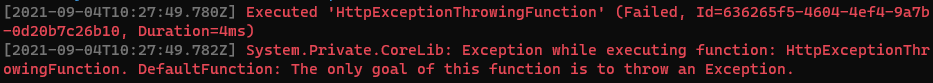
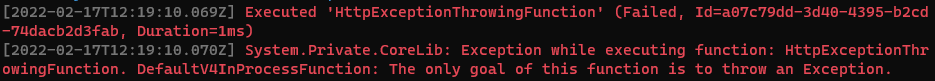
Improve README copy and refresh screenshots

diff --git a/README.md b/README.md
@@ -16,7 +16,9 @@ If you’re not familiar with some of the more advanced features of Application 
 - [Telemetry processors][telemetry-processors]
 - [Telemetry initializers][telemetry-initializers]
 
-In this repository I've attempted to address all the quirks listed above. **Warning**: The customisation is experimental. There may be undesired side effects around performance and missing telemetry. If you're experiencing issues such as missing telemetry, no exception being recorded when something doesn't work as expected I recommend disabling the custom integration and reproducing the problem without it.
+In this repository I've attempted to address all the quirks listed above.
+
+:rotating_light: the customisation is experimental. There may be undesired side effects around performance and missing telemetry. If you're experiencing issues such as missing telemetry, no exception being recorded when something doesn't work as expected I recommend disabling the custom integration and reproducing the problem without it.
 
 ## Using the Application Insights customisation
 
@@ -62,9 +64,9 @@ builder.Services
     .AddCustomConsoleLogging();
 ```
 
-**Note**: Having to specify the name of the Functions is not great and something that will be improved later on.
+**Note**: Having to specify the name of the Functions is not great and something that will hopefully be improved later on.
 
-I also support Function Apps containing both HTTP and Service Bus bindings. You can mix and match the configurations above.
+I also support Function Apps containing both HTTP and Service Bus bindings. You can mix and match the snippets above.
 
 ## What do I get?
 
@@ -74,17 +76,17 @@ This is implemented by [FunctionExecutionTracesFilter][function-execution-traces
 
 ### Discarding duplicate exceptions
 
-This is implemented by [DuplicateExceptionsFilter][duplicate-exceptions-filter]. In order to discard the additional duplicate exception for the Service Bus binding, you’ll need to call `DiscardServiceBusDuplicateExceptions` and provide the function names. Hopefully this is something that will be improved later on.
+This is implemented by [DuplicateExceptionsFilter][duplicate-exceptions-filter]. In order to discard the additional duplicate exception for the Service Bus binding, you’ll need to call `DiscardServiceBusDuplicateExceptions` and provide the Functions names. Hopefully this is something that will be improved later on.
 
 ### Discarding health requests
 
-This is enabled by calling `WithHealthRequestFilter` and providing the function name (the argument provided to the `FunctionNameAttribute`). The telemetry processor used is [HealthRequestFilter][health-request-filter].
+This is enabled by calling `WithHealthRequestFilter` and providing the Function name (the argument provided to the `FunctionNameAttribute`). The telemetry processor used is [HealthRequestFilter][health-request-filter].
 
 ### Better Service Bus binding "request"
 
 The _request name_ and _status code_ are not being set on the service bus triggered "requests". The [ServiceBusRequestInitializer][service-bus-request-initializer] can do this for you.
 
-- Request name: we use the Function name
+- Request name: I use the Function name
 - Status code: `200` in case of success, `500` in case of failure
 
 You need to enable the `ServiceBusRequestInitializer` by calling `WithServiceBusRequestInitializer`.
@@ -97,9 +99,9 @@ This is recommended on high-volume services. This is done by calling `WithServic
 
 This is done by calling `AddCustomConsoleLogging`. You’ll then get stack traces in the console.
 
-### Telemetry initializer support
+### Registering telemetry initializers
 
-**Note**: the built-in integration supports telemetry initializers.
+**Note**: the built-in integration supports telemetry initializers. The custom integration supports registering telemetry initializers in the same way than the built-in integration does.
 
 Telemetry initializers can either be registered using `TImplementation`:
 
@@ -107,7 +109,7 @@ Telemetry initializers can either be registered using `TImplementation`:
 builder.Services.AddSingleton<ITelemetryInitializer, YourInitializer>();
 ```
 
-Or an instance of the initializer:
+Or an instance of the telemetry initializer:
 
 ```csharp
 // Use:
@@ -118,9 +120,9 @@ builder.Services.AddSingleton(new YourOtherInitializer("NiceValue"));
 
 You can add as many telemetry initializers as you want.
 
-### Telemetry processor support
+### Telemetry processors support
 
-**Note**: the built-in integration does **not** telemetry processors.
+**Note**: the built-in integration does **not** support telemetry processors. I've added support so that you can use the same extension method than when registering a telemetry processor in ASP.NET Core:
 
 ```csharp
 builder.Services.AddApplicationInsightsTelemetryProcessor<YourTelemetryProcessor>();
@@ -153,12 +155,12 @@ Run `deploy.ps1` to deploy the project to Azure. This will deploy:
 .\deploy.ps1 -Location {AzureRegion} -ResourceNamePrefix {UniquePrefix}
 ```
 
-The project contains four Functions:
+The project contains four Functions Apps:
 
 - `DefaultV3InProcessFunction` and `DefaultV4InProcessFunction` demonstrate the quirks of In-Process Azure Functions `v3` / `v4` Application Insights integration
 - `CustomV3InProcessFunction` and `CustomV4InProcessFunction` demonstrate the workarounds I use to improve In-Process Azure Functions `v3` / `v4` Application Insights integration
 
-I've decided to commit the `local.settings.json` file. This is not the default or recommended approach but it makes it easier for new joiners to get started.
+I've decided to commit the `local.settings.json` file. This is **not the default or recommended approach** but it makes it easier for new joiners to get started.
 
 You can start the Function Apps by issuing the below commands:
 
@@ -182,7 +184,7 @@ cd .\samples\CustomV4InProcessFunction\
 func start
 ```
 
-The Function Apps run on fixed ports locally so that you can run all four at the same time:
+The Function Apps run on fixed ports locally so that you can run all four Functions at the same time:
 
 - Default `v3`: `7071`
 - Default `v4`: `7073`
@@ -193,17 +195,17 @@ The Function Apps run on fixed ports locally so that you can run all four at the
 
 Navigate to `http://localhost:7074/availability` (Custom `v4`) in your favourite browser.
 
-Emits an availability telemetry items. This is normally emitted by tooling such as Application Insights [URL ping test][url-ping-test]. The reason I'm emitting it manually is to demonstrate that the processor is called for availability telemetry items.
+Emits an availability telemetry items. This is normally emitted by tooling such as Application Insights [URL ping test][url-ping-test]. The reason I'm emitting it manually is to demonstrate that the telemetry processors are called for availability telemetry items.
 
 ### CustomEventFunction
 
-You'll need to delete the Application Insights connection string secret in order to reproduce this error. Stop all the Functions and then run:
+You'll need to delete the Application Insights connection string secret in order to reproduce the error. Stop all the Functions and then run:
 
 ```powershell
 dotnet user-secrets list --id 074ca336-270b-4832-9a1a-60baf152b727
 ```
 
-Make a note of the value of the `APPLICATIONINSIGHTS_CONNECTION_STRING` secret then delete it:
+Make a note of the value of the `APPLICATIONINSIGHTS_CONNECTION_STRING` secret, then delete it:
 
 ```powershell
 dotnet user-secrets remove APPLICATIONINSIGHTS_CONNECTION_STRING --id 074ca336-270b-4832-9a1a-60baf152b727
@@ -217,33 +219,33 @@ dotnet user-secrets set APPLICATIONINSIGHTS_CONNECTION_STRING '{YourConnectionSt
 
 Navigate to `http://localhost:7073/event` (Default `v4`) in your favourite browser.
 
-Demonstrate that when the setting `APPLICATIONINSIGHTS_CONNECTION_STRING` is not set, attempting to retrieve `TelemetryConfiguration` from the container results in an exception:
+Demonstrate that when the secret `APPLICATIONINSIGHTS_CONNECTION_STRING` is not set, attempting to retrieve `TelemetryConfiguration` from the container results in an exception:
 
-![Without the setting `APPLICATIONINSIGHTS_CONNECTION_STRING`, TelemetryConfiguration is not registered](docs/img/telemetry-configuration-not-registered.png)
+![Without the secret `APPLICATIONINSIGHTS_CONNECTION_STRING`, `TelemetryConfiguration` is not registered and an exception is thrown](docs/img/telemetry-configuration-not-registered.png)
 
-Note: when using vanilla ASP.NET, `TelemetryConfiguration` is registered by calling `AddApplicationInsightsTelemetry()` in `Startup.cs` but this method [should not be called in Azure Functions][dont-call-add-app-insights-telemetry]:
+Note: when using ASP.NET Core, `TelemetryConfiguration` is registered by calling `AddApplicationInsightsTelemetry()` in `Startup.cs` but this method [should not be called in Azure Functions][dont-call-add-app-insights-telemetry]:
 
 > Don't add `AddApplicationInsightsTelemetry()` to the services collection, which registers services that conflict with services provided by the environment.
 
 Navigate to `http://localhost:7074/event` (Custom `v4`) in your favourite browser.
 
-Demonstrate that when the setting `APPLICATIONINSIGHTS_CONNECTION_STRING` is not set, attempting to retrieve `TelemetryConfiguration` from the container does not result in an exception because I [register a no-op TelemetryConfiguration][default-telemetry-configuration-registration] if one was not registered already:
+Demonstrate that when the secret `APPLICATIONINSIGHTS_CONNECTION_STRING` is not set, attempting to retrieve `TelemetryConfiguration` from the container does not result in an exception because I [register a no-op TelemetryConfiguration][default-telemetry-configuration-registration] if one was not registered already:
 
-![Without the setting `APPLICATIONINSIGHTS_CONNECTION_STRING`, TelemetryConfiguration is registered and no exception is thrown](docs/img/telemetry-configuration-registered.png)
+![Without the secret `APPLICATIONINSIGHTS_CONNECTION_STRING`, `TelemetryConfiguration` is registered and no exception is thrown](docs/img/telemetry-configuration-registered.png)
 
 ### DependencyFunction
 
 Navigate to `http://localhost:7074/dependency` (Custom `v4`) in your favourite browser.
 
-Discards a specific telemetry type. This is useful when having a noisy telemetry. You can tweak the processor to only discard successful dependencies, you can also modify the implementation to discard multiple dependency types.
+Discards a specific telemetry type. This is useful when having a noisy telemetry. You can tweak the processor to only discard successful dependencies.
 
 ### HealthFunction
 
 Navigate to `http://localhost:7074/health` (Custom `v4`) in your favourite browser.
 
-To keep Function Apps on a consumption plan alive and limit the number of cold starts, developers tend to use Application Insights [URL ping test][url-ping-test]. These results in many requests being recorded in Application Insights. I've configured App Insights to discard such requests.
+To keep Function Apps on a consumption plan alive and limit the number of cold starts, developers tend to use Application Insights [URL ping test][url-ping-test]. This results in many requests being recorded in Application Insights. I've configured App Insights to discard such requests.
 
-Note that `HEAD` is more commonly used than `GET` for ping tests but it's easier to issue a `GET` with a web browser.
+`HEAD` is more commonly used than `GET` for ping tests but it's easier to issue a `GET` with a web browser.
 
 ### HttpExceptionThrowingFunction
 
@@ -271,7 +273,7 @@ This also demonstrates that the same exception appears only once in Application 
 
 Navigate to `http://localhost:7073/processor` (Default `v4`) in your favourite browser.
 
-Demonstrates that our telemetry processor is not being called even though we added it using `AddApplicationInsightsTelemetryProcessor`.
+Demonstrates that our telemetry processor is not being called even though I added it using `AddApplicationInsightsTelemetryProcessor`.
 
 ![Our telemetry processor is not being called for requests](docs/img/telemetry-processor-is-not-being-called.png)
 
@@ -287,15 +289,15 @@ Note that the processor is also called for request telemetry items.
 
 You can send a message to the `defaultv4inprocess-exception-queue` queue using the Service Bus Explorer in the Azure Portal or you can navigate to `http://localhost:7073/service-bus-exception` (Default `v4`) in your favourite browser.
 
-Demonstrate that a single exception thrown by the Function is recorded three times in Application Insights and that a total of eight telemetry items are emitted during the Function execution.
+Demonstrate that a single exception thrown by the Function is recorded three times in Application Insights and that a total of nine telemetry items are emitted during the Function execution.
 
-![Service Bus binding: eight telemetry items emitted by the Functions runtime](docs/img/service-bus-binding-execution-eight-telemetry-items.png)
+![Service Bus binding: eight telemetry items emitted by the Functions runtime](docs/img/service-bus-binding-execution-nine-telemetry-items.png)
 
 You can send a message to the `customv4inprocess-exception-queue` queue using the Service Bus Explorer in the Azure Portal or you can navigate to `http://localhost:7074/service-bus-exception` (Custom `v4`) in your favourite browser.
 
-Demonstrate that a single exception thrown by the Function is recorded only once in Application Insights and that a total of two telemetry items are emitted during the Function execution.
+Demonstrate that a single exception thrown by the Function is recorded only once in Application Insights and that a total of three telemetry items are emitted during the Function execution.
 
-![Service Bus binding: four telemetry items emitted by the Functions runtime](docs/img/service-bus-binding-execution-two-telemetry-items.png)
+![Service Bus binding: four telemetry items emitted by the Functions runtime](docs/img/service-bus-binding-execution-three-telemetry-items.png)
 
 I'm also setting the "request" `URL` and "response" code using `ServiceBusRequestInitializer`.
 
@@ -354,7 +356,7 @@ NuGet packages:
 
 ### Supporting telemetry processors
 
-The code in `AddCustomApplicationInsights` retrieves the configured built-in telemetry processors, adds them to a new telemetry processor chain and builds the chain. This gives us the opportunity to add our own processors to the chain.
+The code in `AddCustomApplicationInsights` retrieves the configured built-in telemetry processors, adds them to a new telemetry processor chain and builds the chain. This gives me the opportunity to add our own processors to the chain.
 
 The first built-in processor in the chain is `OperationFilteringTelemetryProcessor`, this processor discards all the dependencies considered internal to the Azure Functions runtime (such as access to blob storage for the distributed lock and the calls to Azure Service Bus for the Service Bus binding).
 
